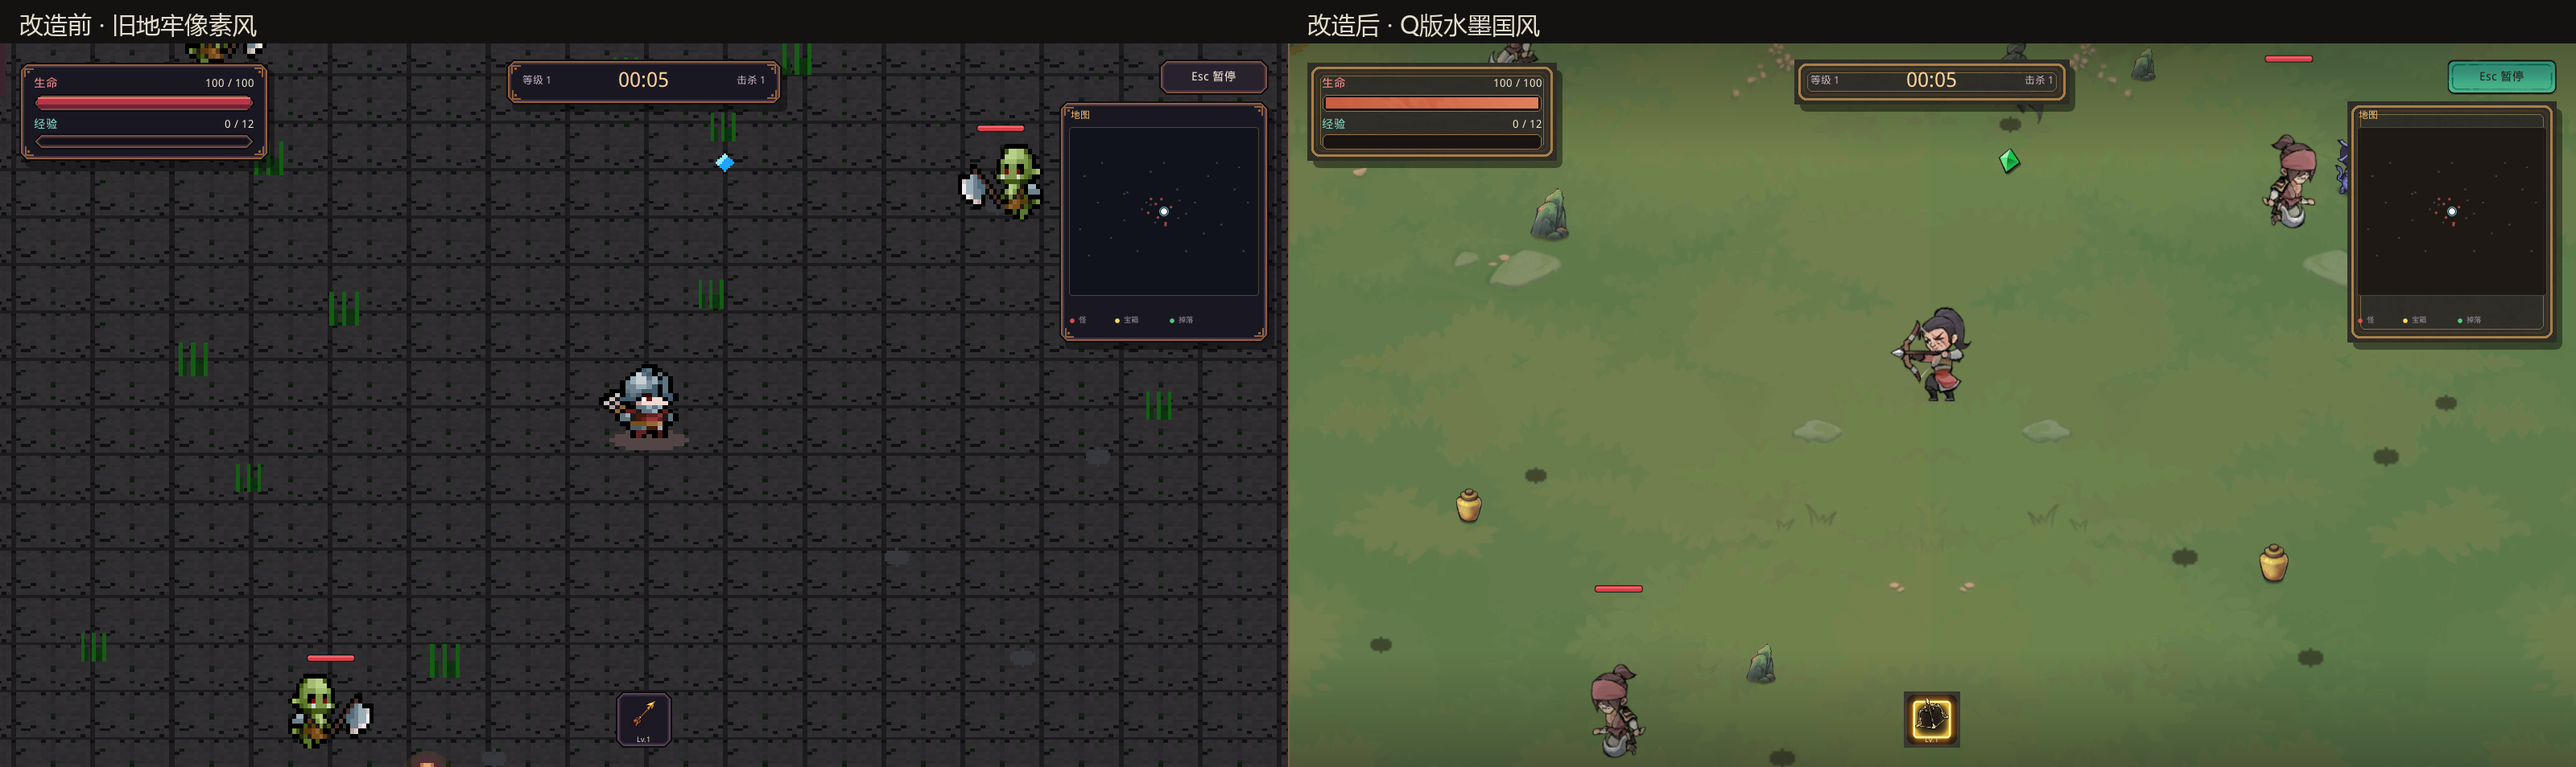
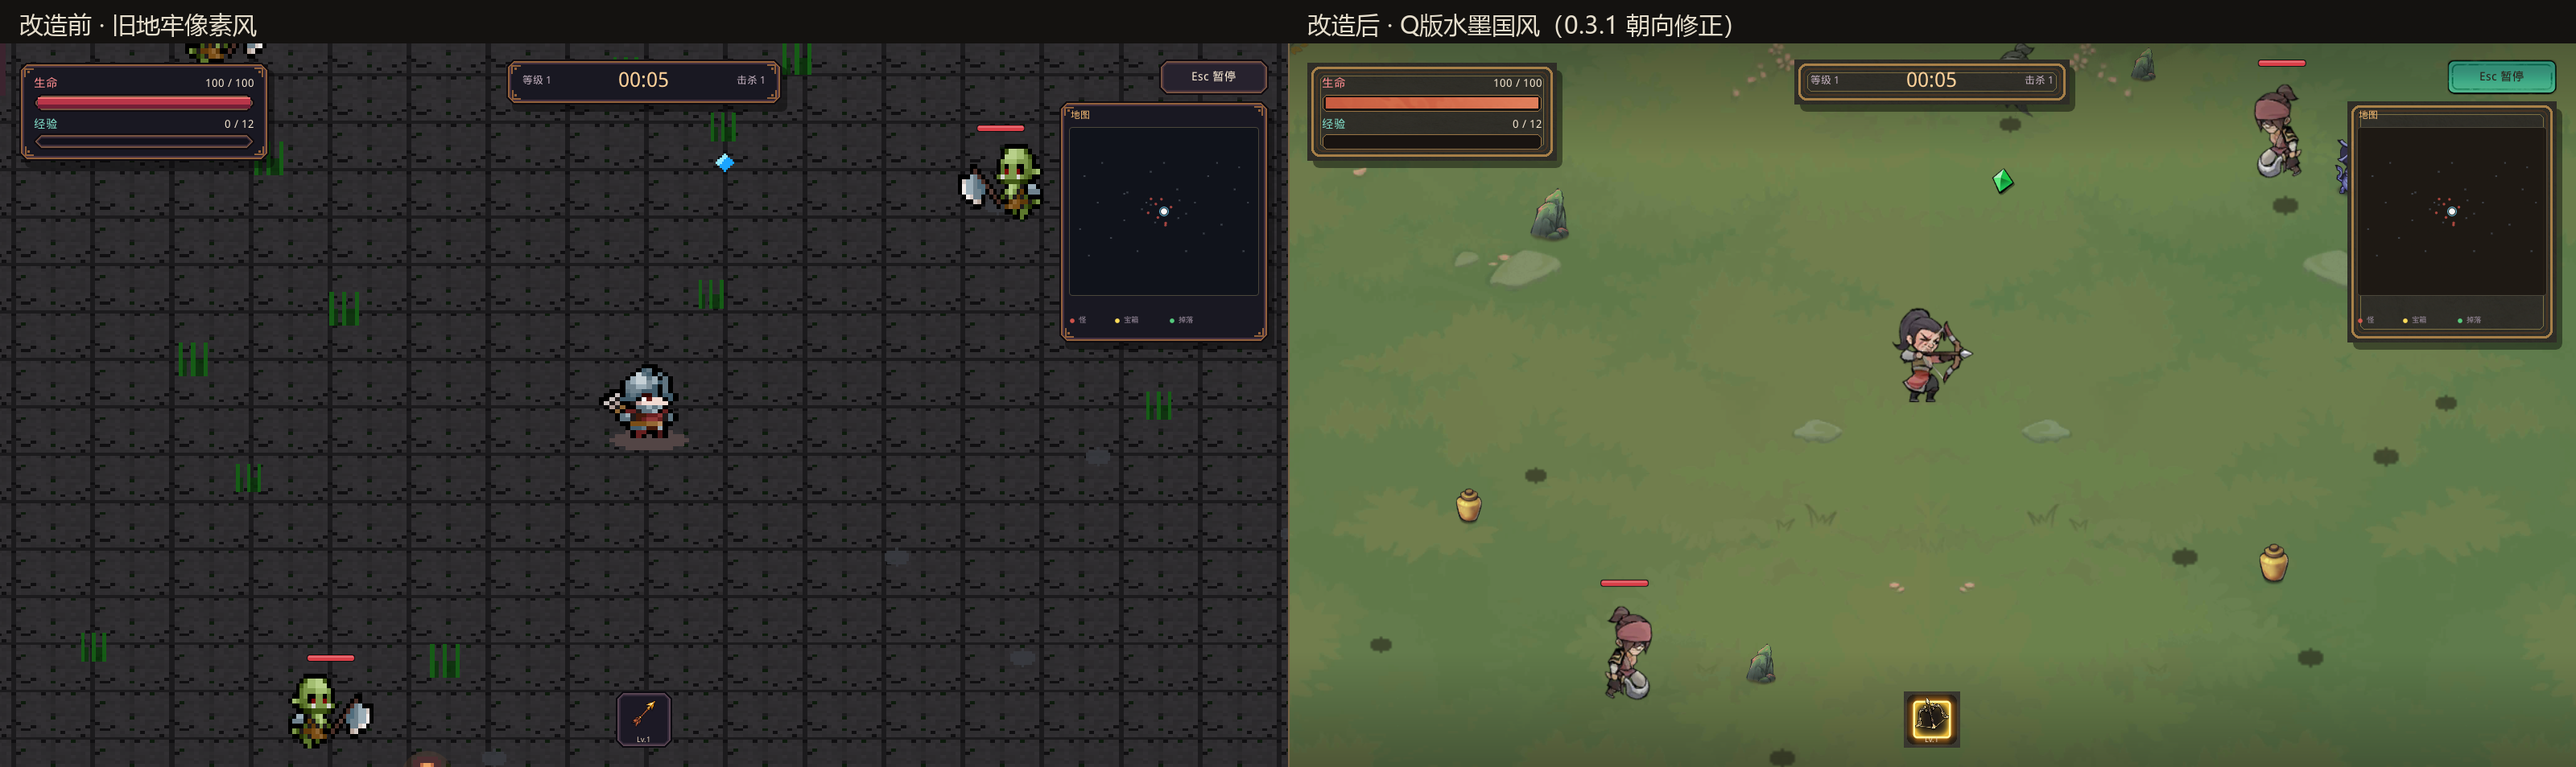
fix(game): 修正水墨角色/怪物朝向与行走动画（0.3.1）
- 素材默认面朝左，0.3.0 的 flipX 条件写反导致倒退走；玩家/怪物改为向右移动时翻转
- 显式指定玩家 5/7 帧、怪物 8/6/6/5/5/5 帧，避免微信端按贴图宽高推断失败；怪物/玩家偏移恢复脚底锚点
- 行走帧位移较小：提高行走帧率并加上下起伏/轻微摆动，移动更明显
- 刷新 before/after 截图，新增 walk-after.gif 与玩家特写
验证：Web/WASM 构建通过；H5 键盘移动 6 帧序列确认朝向与动画；微信预览重新上传（0.3.1）。

diff --git a/engine/src/game/Survivors.cpp b/engine/src/game/Survivors.cpp
@@ -454,6 +454,7 @@ void SpawnCorpse(World& world, const Vec2& position, const std::string& texture,
         if (auto* animator = corpse->AddComponent<SpriteAnimatorComponent>()) {
             animator->fps = fps;
             animator->loop = false;
+            animator->columnsOverride = columns;
             animator->OnUpdate(0.0f);
         }
     }
@@ -842,16 +843,17 @@ struct EnemyArchetype {
     const char* runTexture;
     const char* deathTexture;
     int         deathFrames;
+    int         runFrames;
 };
 
 const EnemyArchetype kEnemyArchetypes[] = {
     // name        hp    speed  dmg   xp   sprite contact atkInt color                                 run                          death                          frames
-    {"山贼",       18.0f, 1.90f, 8.0f, 3.0f, 2.15f, 0.75f, 0.80f, Vec4(1.00f, 1.00f, 1.00f, 1.00f), "inkwash/enemy_0_run.png", "inkwash/enemy_0_death.png", 5},
-    {"石人",       34.0f, 1.15f, 5.0f, 4.0f, 1.95f, 0.70f, 1.10f, Vec4(0.92f, 1.00f, 0.94f, 1.00f), "inkwash/enemy_1_run.png", "inkwash/enemy_1_death.png", 5},
-    {"飞鹰",       12.0f, 3.10f, 7.0f, 2.5f, 2.70f, 0.65f, 0.70f, Vec4(0.84f, 0.92f, 1.00f, 0.94f), "inkwash/enemy_2_run.png", "inkwash/enemy_2_death.png", 10},
-    {"毒蛛",       10.0f, 3.80f, 5.0f, 2.0f, 1.55f, 0.60f, 0.55f, Vec4(0.96f, 0.86f, 1.00f, 1.00f), "inkwash/enemy_3_run.png", "inkwash/enemy_3_death.png", 5},
-    {"官兵",       62.0f, 1.60f, 12.0f, 8.0f, 2.35f, 0.85f, 0.95f, Vec4(0.94f, 0.96f, 1.00f, 1.00f), "inkwash/enemy_4_run.png", "inkwash/enemy_4_death.png", 5},
-    {"虎王",      120.0f, 1.45f, 16.0f, 18.0f, 3.25f, 1.10f, 1.00f, Vec4(1.00f, 0.90f, 0.82f, 1.00f), "inkwash/enemy_5_run.png", "inkwash/enemy_5_death.png", 4},
+    {"山贼",       18.0f, 1.90f, 8.0f, 3.0f, 2.15f, 0.75f, 0.80f, Vec4(1.00f, 1.00f, 1.00f, 1.00f), "inkwash/enemy_0_run.png", "inkwash/enemy_0_death.png", 5, 8},
+    {"石人",       34.0f, 1.15f, 5.0f, 4.0f, 1.95f, 0.70f, 1.10f, Vec4(0.92f, 1.00f, 0.94f, 1.00f), "inkwash/enemy_1_run.png", "inkwash/enemy_1_death.png", 5, 6},
+    {"飞鹰",       12.0f, 3.10f, 7.0f, 2.5f, 2.70f, 0.65f, 0.70f, Vec4(0.84f, 0.92f, 1.00f, 0.94f), "inkwash/enemy_2_run.png", "inkwash/enemy_2_death.png", 10, 6},
+    {"毒蛛",       10.0f, 3.80f, 5.0f, 2.0f, 1.55f, 0.60f, 0.55f, Vec4(0.96f, 0.86f, 1.00f, 1.00f), "inkwash/enemy_3_run.png", "inkwash/enemy_3_death.png", 5, 5},
+    {"官兵",       62.0f, 1.60f, 12.0f, 8.0f, 2.35f, 0.85f, 0.95f, Vec4(0.94f, 0.96f, 1.00f, 1.00f), "inkwash/enemy_4_run.png", "inkwash/enemy_4_death.png", 5, 5},
+    {"虎王",      120.0f, 1.45f, 16.0f, 18.0f, 3.25f, 1.10f, 1.00f, Vec4(1.00f, 0.90f, 0.82f, 1.00f), "inkwash/enemy_5_run.png", "inkwash/enemy_5_death.png", 4, 5},
 };
 
 int PickEnemyType(float time) {
@@ -1635,15 +1637,26 @@ void SurvivorsPlayerComponent::OnUpdate(float dt) {
         const std::string runTexture = "inkwash/player_" + std::to_string(Clamp(playerClass, 0, 2)) + "_run.png";
         if (sprite && sprite->texture != runTexture) {
             sprite->texture = runTexture;
-            if (animator) animator->Play(12.0f);
+            if (animator) animator->Play(14.0f);
         }
-        if (sprite) sprite->flipX = facing.x < 0.0f;
+        if (animator) animator->columnsOverride = playerClass == 2 ? 7 : 5;
+        // 素材里的角色默认面朝左：向右移动时才翻转，否则会“倒着走”。
+        if (sprite && std::abs(facing.x) > 1e-3f) sprite->flipX = facing.x > 0.0f;
     } else if (sprite) {
         const std::string idleTexture = "inkwash/player_" + std::to_string(Clamp(playerClass, 0, 2)) + "_idle.png";
         if (sprite->texture != idleTexture) {
             sprite->texture = idleTexture;
-            if (animator) animator->Play(6.0f);
+            if (animator) animator->Play(4.0f);
         }
+        if (animator) animator->columnsOverride = 1;
+        if (std::abs(facing.x) > 1e-3f) sprite->flipX = facing.x > 0.0f;
+    }
+
+    if (sprite) {
+        const float bob = moving ? std::abs(std::sin(g_gameTime * 12.0f)) * 0.14f
+                                 : std::sin(g_gameTime * 3.0f) * 0.02f;
+        sprite->offset = Vec2(0.0f, 1.05f + bob);
+        sprite->rotation = moving ? std::sin(g_gameTime * 24.0f) * 0.02f : 0.0f;
     }
 
     // 自动攻击：有敌人时锁定最近目标；没有目标时朝面朝方向射击
@@ -2047,7 +2060,10 @@ void SurvivorsEnemyComponent::OnUpdate(float dt) {
             color = Vec4(0.62f, 0.80f, 1.0f, baseColor.w);
         }
         sprite->color = color;
-        sprite->offset = Vec2(0.0f, std::sin(bobPhase * 3.0f + bobPhase * 0.7f) * 0.05f);
+        // 脚底锚点 + 行走起伏：素材的 run 帧位移很小，靠轻微上下浮动让走动更明显。
+        const float bob = std::abs(std::sin(bobPhase * 9.0f)) * 0.095f;
+        sprite->offset = Vec2(0.0f, visualHeight * 0.5f + bob);
+        sprite->rotation = std::sin(bobPhase * 9.0f) * 0.018f;
     }
 
     if (hp <= 0.0f) {
@@ -2136,7 +2152,8 @@ void SurvivorsEnemyComponent::OnUpdate(float dt) {
     // 兽人贴图是面向镜头的正视图（脸略朝画面右侧）：向右走保持原图，向左走才翻转。
     // 之前条件写反了，向右追击玩家时会翻成背对玩家，看起来像“屁股对人倒着走”。
     if (sprite && Length(moved) > 0.001f && std::abs(moved.x) > 1e-4f) {
-        sprite->flipX = moved.x < 0.0f;
+        // 素材里的怪物默认面朝左，移动方向与翻转方向相反。
+        sprite->flipX = moved.x > 0.0f;
     }
 }
 
@@ -2347,7 +2364,9 @@ void SurvivorsDirector::SpawnEnemy(World& world, const Vec2& position, int type,
         sprite->offset = Vec2(0.0f, archetype.spriteWidth * 0.5f);
     }
     if (auto* animator = enemy->AddComponent<SpriteAnimatorComponent>()) {
-        animator->fps = 10.0f;
+        animator->fps = 12.0f;
+        // 不依赖贴图宽高自动推断：微信端也保证行走帧按素材表数量播放。
+        animator->columnsOverride = archetype.runFrames;
         animator->OnUpdate(0.0f);
     }
 

diff --git a/engine/src/game/Survivors.h b/engine/src/game/Survivors.h
@@ -62,7 +62,7 @@ constexpr float kSurvivorsSpawnHalfX = 40.0f * kSurvivorsMapScale;
 constexpr float kSurvivorsSpawnHalfY = 22.0f * kSurvivorsMapScale;
 
 // 开发版/正式版共用的版本号；暂停页会显示，方便真机确认装的是哪一版。
-constexpr const char* kSurvivorsVersion = "0.3.0";
+constexpr const char* kSurvivorsVersion = "0.3.1";
 // 技能等级上限 20；箭矢可分配强化合计 24 级（1 基础 + 攻速 6 + 攻击 8 + 范围 4 + 散射 5），按 20 级封顶。
 constexpr int kSurvivorsMaxSkillLevel = 20;
 constexpr int kSurvivorsMaxArrowSpeedLevel = 6;

diff --git a/CHANGELOG.md b/CHANGELOG.md
@@ -5,6 +5,9 @@
 
 ## [Unreleased]
 
+### Fixed
+- 2D 幸存者 0.3.1：修正 0.3.0 水墨角色/怪物“倒退着走”的朝向翻转（素材默认面朝左，翻转条件应为向右移动时翻转）；显式指定玩家 5/7 帧、怪物 8/6/6/5/5/5 帧，避免微信端按贴图宽高推断失败；行走帧位移较小，补上脚底锚点与上下起伏/轻微摆动，移动动画更明显
+
 ### Added
 - 2D 幸存者：按用户提供的《Q版水墨国风（行侠仗义五千年）》素材包重构画面、UI 与技能表现。战场换成水墨草地 + 淡墨笔触 + 古树/石灯/香炉/山石/酒坛小景；三个职业（游侠/剑士/法师）与六类怪物改用素材包的 idle/run/death 序列帧，死亡播放残影与墨点；十种武学换成素材包图标与序列帧特效（月牙剑气、飞剑、闪电、霜环、毒雾、火球、陨石、黑洞、棱镜光束、毒爆），命中/死亡加入墨痕；主菜单、HUD、升级/暂停/设置/结算/图鉴改为纸墨面板、漆面按钮、金框技能槽、书法标题与水墨宝箱立绘。素材来源与授权见 `engine/assets/inkwash/LICENSE-INKWASH.txt`
 - 2D 幸存者：战斗地图面积扩大到原来的 5 倍（90×54 → 约 201×121，长宽各 ×√5），玩家/敌人/宝箱移动与刷新边界、地面、装饰、火把和障碍同步扩展，障碍沿用原布局（去掉随机新增障碍，避免生成在出生点附近挡路）

diff --git a/文档/screenshots/inkwash/README.md b/文档/screenshots/inkwash/README.md
@@ -6,7 +6,7 @@
 ## 对照口径
 
 - 改造前：`main`（0.2.6）H5/WebGL 构建，旧地牢像素风。
-- 改造后：本分支（0.3.0）H5/WebGL 构建，Q版水墨国风。
+- 改造后：本分支（0.3.1）H5/WebGL 构建，Q版水墨国风；0.3.1 修正了角色/怪物倒退走与行走动画过弱的问题。
 - 同一场景、同一视口、同一固定步数：桌面 1600×900，`?play=1&frames=300`（5 秒）；
   手机竖屏 402×874，`?play=1&frames=300&mobile=1`。
 - 对照图左侧为改造前、右侧为改造后；菜单为同一启动状态，战斗为同一第 300 帧。
@@ -19,6 +19,8 @@
 | `gameplay-before-after.png` | 桌面战斗对照（1600×900，第 300 帧） |
 | `portrait-menu-before-after.png` | 手机竖屏主菜单对照（402×874） |
 | `portrait-gameplay-before-after.png` | 手机竖屏战斗对照（402×874，第 300 帧） |
+| `walk-after.gif` | 0.3.1 修正后：向右移动时的行走序列（6 帧，160ms/帧） |
+| `walk-after-player.png` | 行走朝向修正后的玩家特写 |
 | `after-prepare-1600x900.png` | 出战准备与职业立绘 |
 | `after-levelup-1600x900.png` | 升级三选一 |
 | `after-newskills-1600x900.png` | 陨石/黑洞/棱镜/毒爆特效 |
